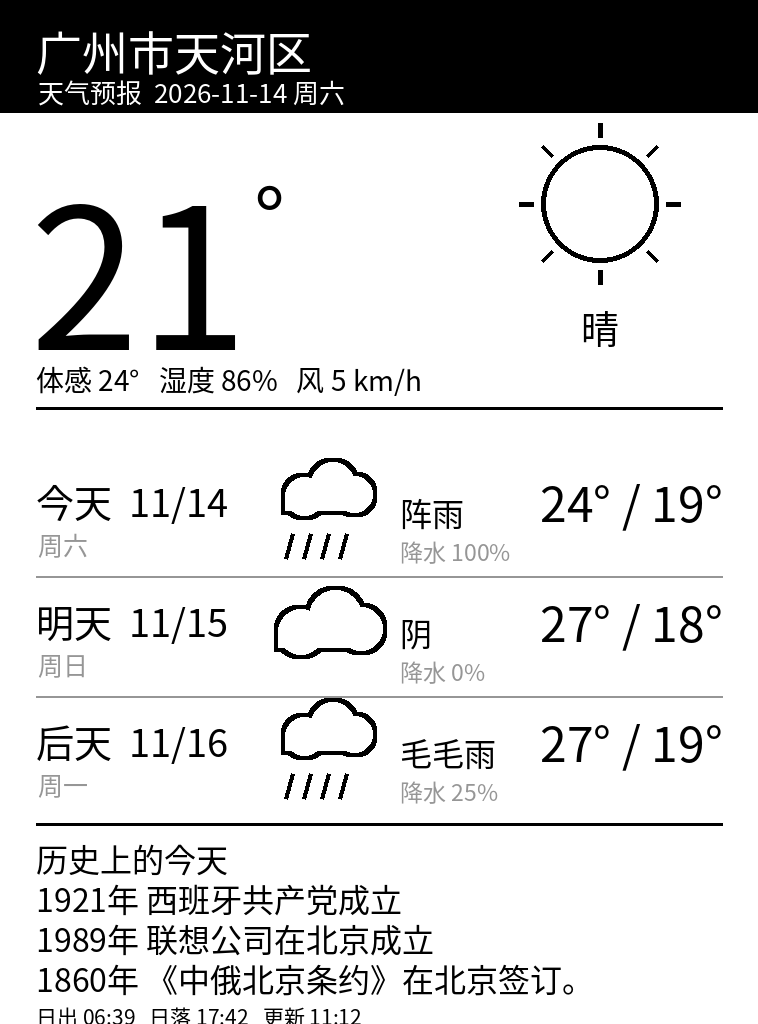
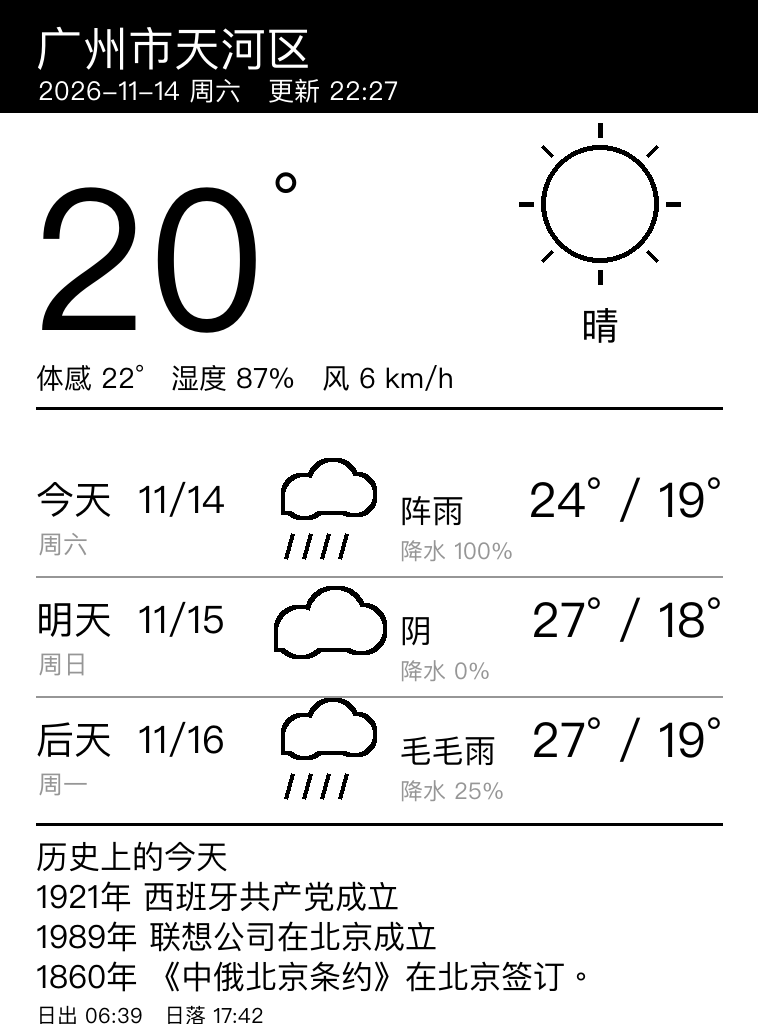
feat: move update time to header, drop forecast label

diff --git a/gen_weather.py b/gen_weather.py
@@ -322,7 +322,9 @@ def render(data, w, h, live):
         wd = "周" + WEEK[datetime.strptime(stamp, "%Y-%m-%d").weekday()]
     except Exception:
         wd = ""
-    d.text((S(38), T(72)), "天气预报  %s %s" % (stamp, wd), font=font(T(26)), fill=WHITE)
+    upd = fetched[-5:] if len(fetched) >= 5 else fetched
+    d.text((S(38), T(72)), "%s %s   更新 %s%s" % (stamp, wd, upd, "" if live else " (缓存)"),
+           font=font(T(26)), fill=WHITE)
 
     # ===== 当前实况 =====
     temp = round(c["temperature_2m"])
@@ -391,8 +393,7 @@ def render(data, w, h, live):
     y = min(y, T(1000))   # 更新时间行保险上限，防止贴到 1024 底边被裁
     sr = dl["sunrise"][0][-5:]
     ss = dl["sunset"][0][-5:]
-    upd = fetched[-5:] if len(fetched) >= 5 else fetched  # 只取 HH:MM
-    d.text((S(36), y), "日出 %s   日落 %s   更新 %s%s" % (sr, ss, upd, "" if live else " (缓存)"),
+    d.text((S(36), y), "日出 %s   日落 %s" % (sr, ss),
            font=font(T(21)), fill=BLACK)
     return img
 
